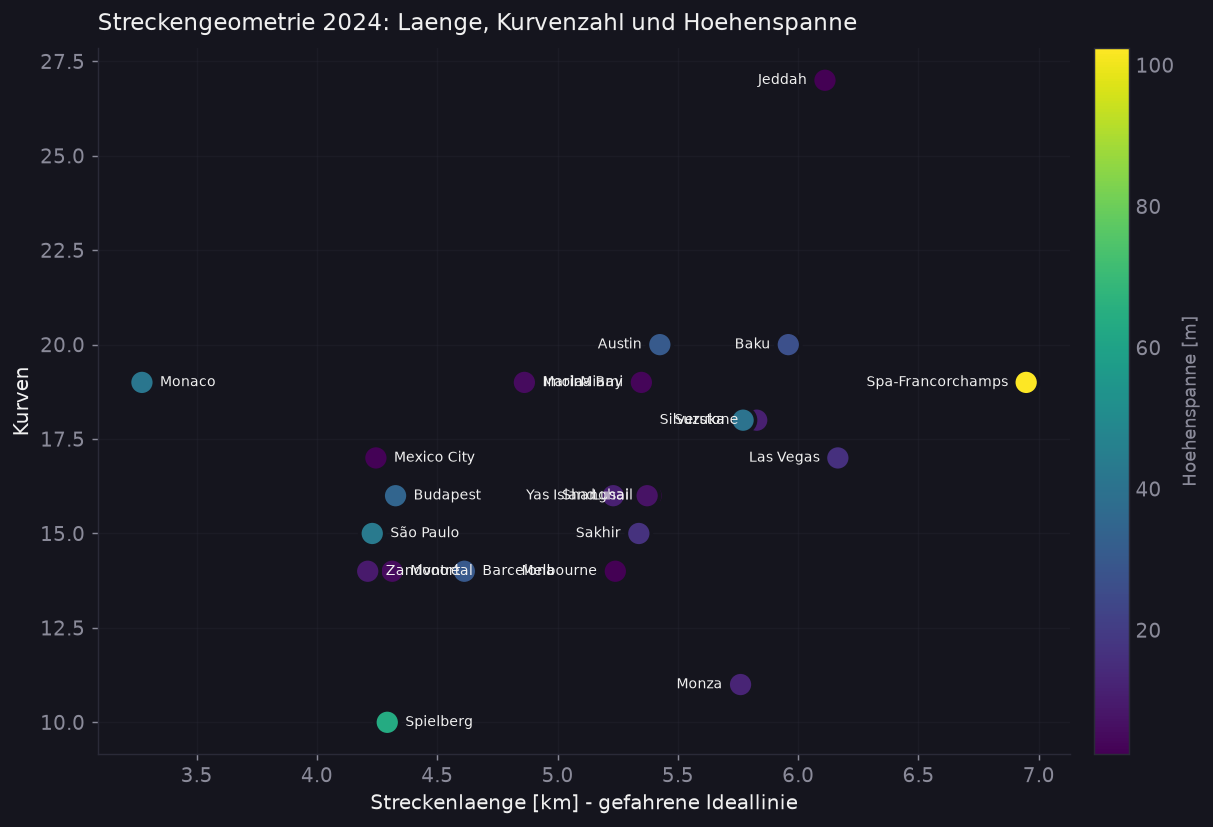
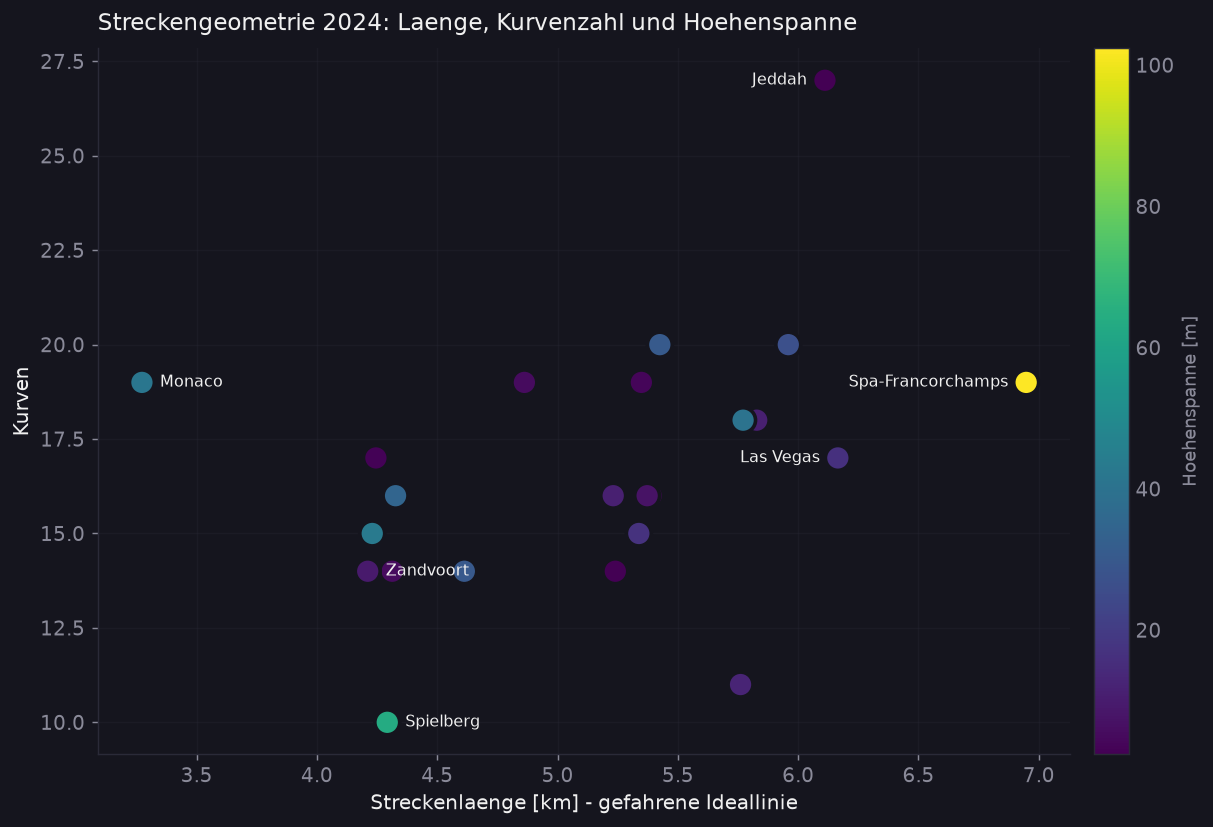
Zwei Grafik-Bugs: Streckenprofil-Labels ueberlappten, Warehouse-Pace-Achse machte das Ranking unlesbar

diff --git a/make_assets.py b/make_assets.py
@@ -510,14 +510,23 @@ def track_geometry(season=2024):
     sc = ax.scatter(geo["length_m"] / 1000, geo["corners"], s=190, c=span,
                     cmap="viridis", norm=norm, edgecolor=BG, linewidth=2,
                     zorder=3)
+    # nur die extreme beschriften (laenge, kurvenzahl, hoehenspanne) - alle
+    # 24 Strecken zu labeln ueberlappt sich zu unlesbarem Kauderwelsch bei
+    # dicht beieinanderliegenden Punkten (siehe P02s strecken_profil()).
+    zeigen = (set(geo.nlargest(2, "length_m").index)
+             | set(geo.nsmallest(2, "length_m").index)
+             | set(geo.nlargest(1, "elev_span_m").index)
+             | set(geo.nlargest(1, "corners").index)
+             | set(geo.nsmallest(1, "corners").index))
     x_mitte = (geo["length_m"].min() + geo["length_m"].max()) / 2000
-    for _, r in geo.iterrows():
+    for i in zeigen:
+        r = geo.loc[i]
         rechts = r["length_m"] / 1000 > x_mitte
         ax.annotate(r["circuit"], (r["length_m"] / 1000, r["corners"]),
                     textcoords="offset points",
                     xytext=(-10, 0) if rechts else (10, 0),
                     ha="right" if rechts else "left", va="center",
-                    color=FG, fontsize=8)
+                    color=FG, fontsize=9)
     ax.set_xlabel("Streckenlaenge [km] - gefahrene Ideallinie")
     ax.set_ylabel("Kurven")
     ax.set_title(f"Streckengeometrie {season}: Laenge, Kurvenzahl und "
@@ -620,11 +629,14 @@ def warehouse_pace():
     """).df()
     con.close()
 
+    # als delta-vom-schnellsten statt absolutem rel_pace plotten - die werte
+    # clustern alle nahe 1.000, eine bei 0 startende achse macht jeden
+    # balken optisch gleich lang und das ranking damit unsichtbar.
+    delta_pct = (rang["mittel_rel_pace"] - 1.0) * 100
     fig, ax = plt.subplots(figsize=(9, 7))
-    ax.barh(rang["Driver"], rang["mittel_rel_pace"], color=SERIEN[0], height=0.65)
+    ax.barh(rang["Driver"], delta_pct, color=SERIEN[0], height=0.65)
     ax.invert_yaxis()
-    ax.axvline(1.0, color=MUTED, lw=1, ls="--")
-    ax.set_xlabel("Mittlere relative Race Pace (1.000 = Event-Schnellster)")
+    ax.set_xlabel("Mittlere relative Race Pace ggue. Event-Schnellster [%]")
     ax.set_title("Saison-Pace-Ranking direkt aus dem DuckDB-Warehouse",
                  loc="left", color=FG, fontsize=13, pad=10)
     for side in ("top", "right"):
